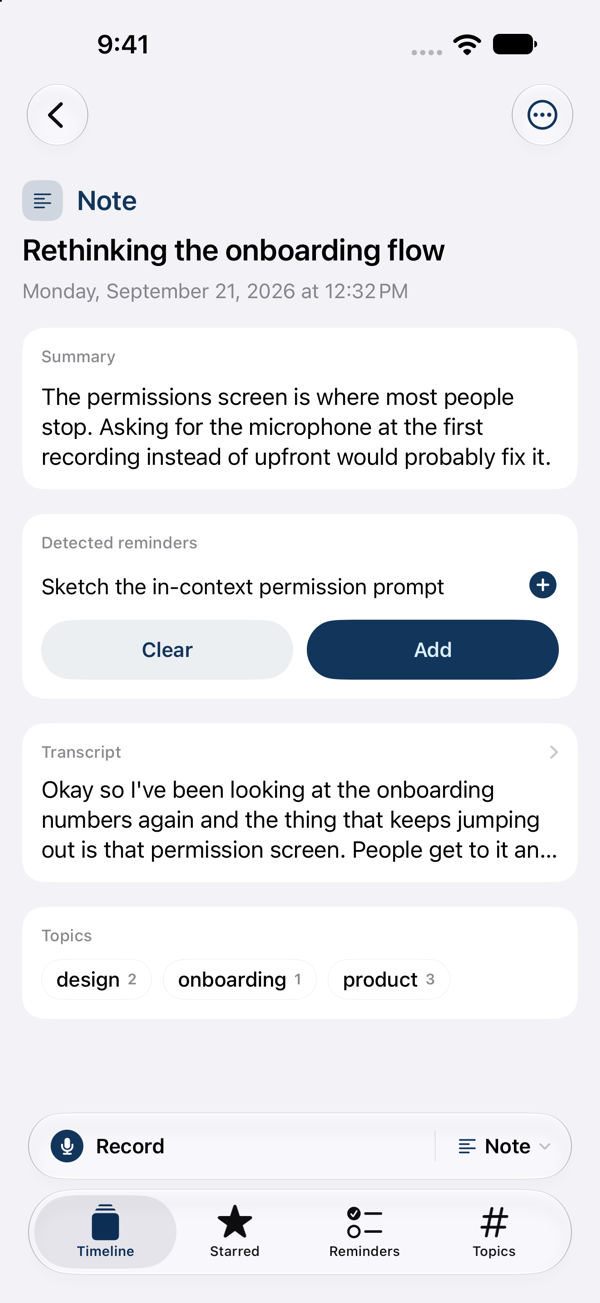
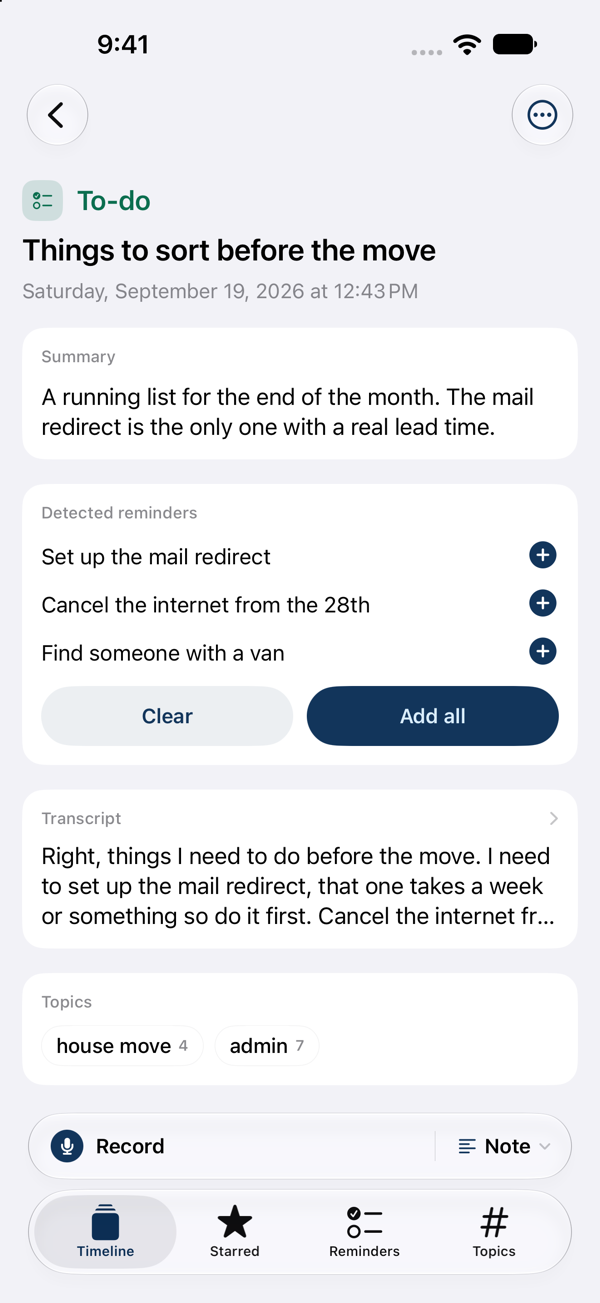
Show the bulk actions in the note screenshot
The gallery shot had a note with one detected to-do, so the button read
"Add" and the pair looked like a single control. Three to-dos makes what
they do obvious, and the note it comes from — a list of things to sort
before a move — is closer to why anyone would talk to their phone.

diff --git a/index.html b/index.html
@@ -311,7 +311,7 @@
     </div>
 
     <div class="hero-phones">
-      <div class="phone"><img src="assets/transcript.png" width="600" height="1303" alt="A note in ideal note, showing its summary, a detected reminder, the transcript and its topics."></div>
+      <div class="phone"><img src="assets/transcript.png" width="600" height="1303" alt="A to-do note in ideal note, showing its summary, three detected reminders with Clear and Add all buttons, the transcript and its topics."></div>
       <div class="phone"><img src="assets/reminders.png" width="600" height="1303" alt="The Reminders tab, with to-dos grouped into Home, Work and Reminders lists."></div>
     </div>
   </div>
@@ -364,7 +364,7 @@
     <p>A quieter interface keeps the attention on what matters: saying the thing, and reading it back later. There are no folders to file notes into and no tags to remember. You talk, and the rest sorts itself out.</p>
     <div class="shots">
       <div class="phone"><img loading="lazy" decoding="async" src="assets/record.png" width="600" height="1303" alt="Recording in progress, with a timer and a live transcript."></div>
-      <div class="phone"><img loading="lazy" decoding="async" src="assets/transcript.png" width="600" height="1303" alt="A finished note with its summary and transcript."></div>
+      <div class="phone"><img loading="lazy" decoding="async" src="assets/transcript.png" width="600" height="1303" alt="A finished to-do note with its summary, detected reminders, transcript and topics."></div>
       <div class="phone"><img loading="lazy" decoding="async" src="assets/search.png" width="600" height="1303" alt="Search results for “the move”, with the matching words highlighted in two notes."></div>
       <div class="phone"><img loading="lazy" decoding="async" src="assets/year.png" width="600" height="1303" alt="Year in review: notes captured, hours recorded, a monthly rhythm and a streak."></div>
     </div>
